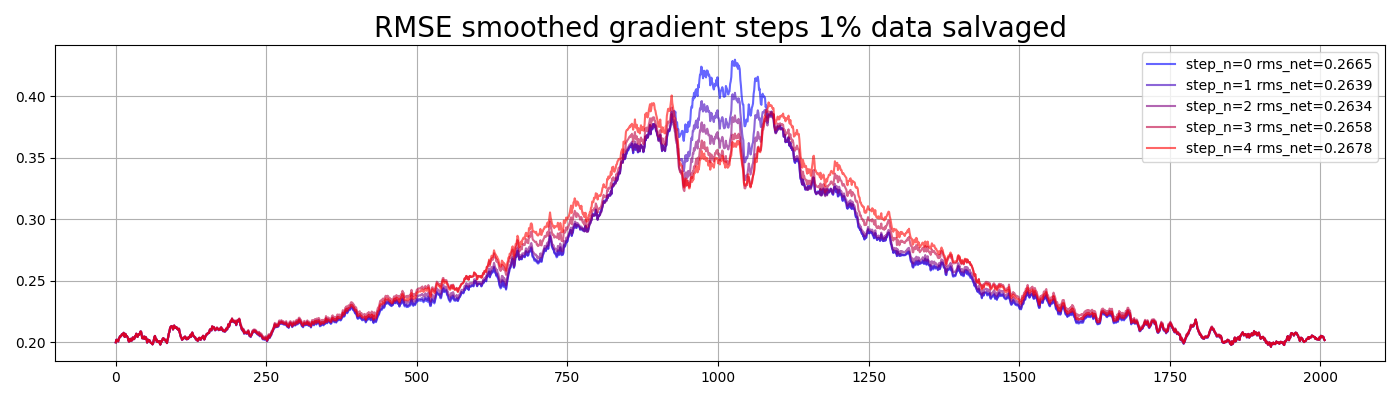
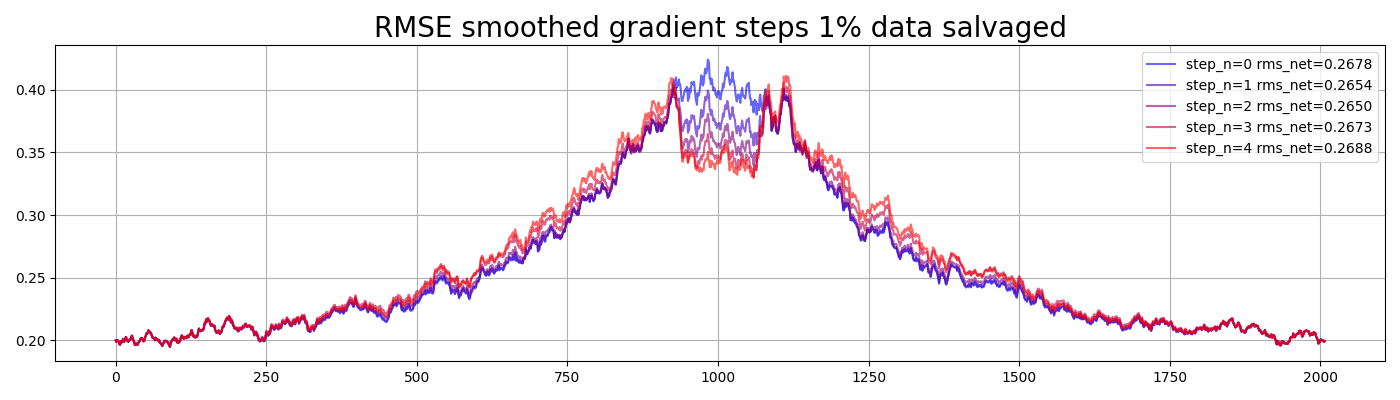
eigenplot fixed title

diff --git a/plots/eigenvalues_ntap4_lblock2048.py b/plots/eigenvalues_ntap4_lblock2048.py
@@ -10,7 +10,7 @@ import matplotlib.pyplot as plt
 
 # `ntap` is the number of taps
 # `lblock` is `2*nchan` which is the number of channels before transform
-ntap, lblock = 4, 2018
+ntap, lblock = 4, 2048
 
 # A sinc array
 sinc = np.sinc(np.linspace(-ntap/2, ntap/2, ntap*lblock))
